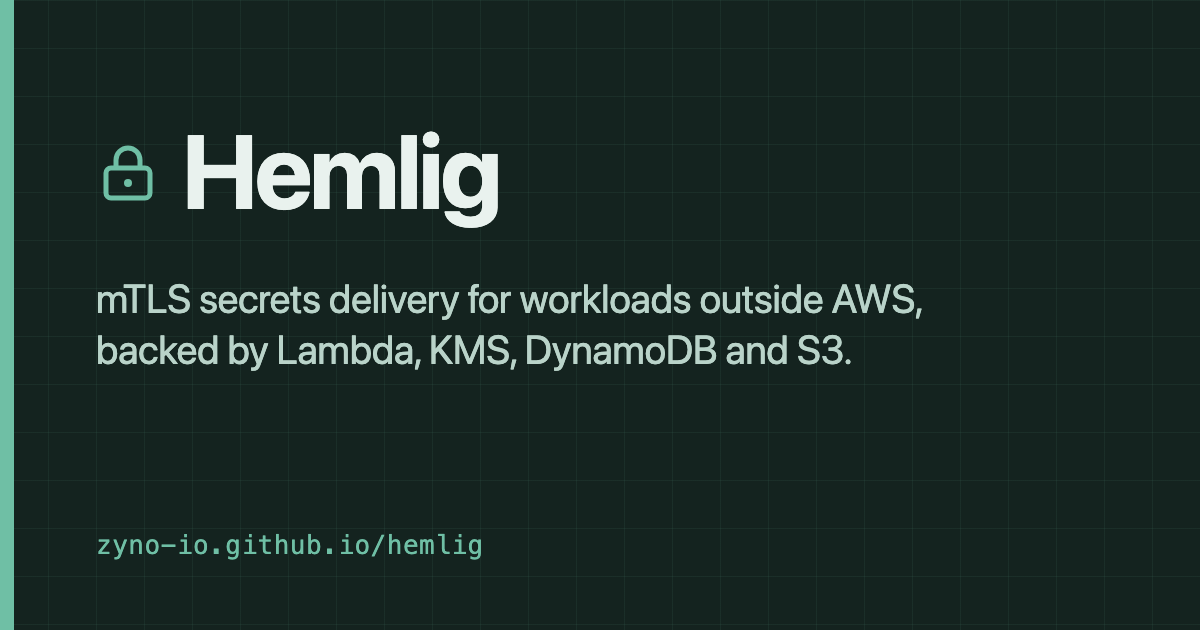
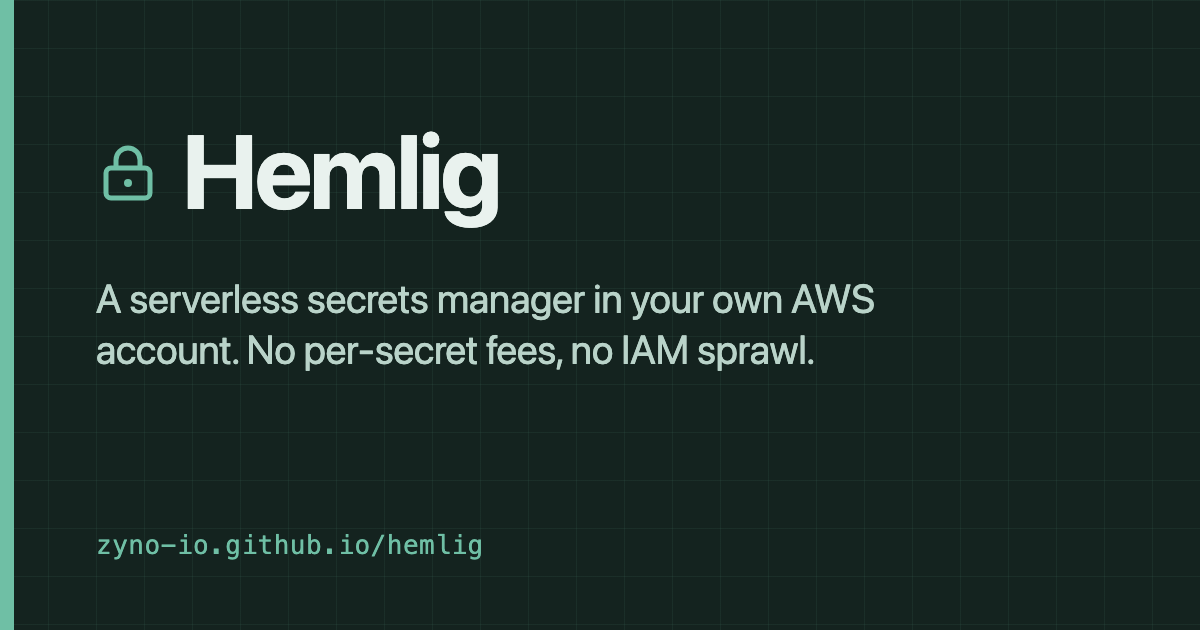
docs: reposition Hemlig as a serverless secrets manager; compare with AWS Secrets Manager

Changed region(s): [[0.0617, 0.4524, 0.7708, 0.6032]]

diff --git a/docs/.vitepress/config.ts b/docs/.vitepress/config.ts
@@ -13,7 +13,7 @@ export default withMermaid(
   defineConfig({
     title: "Hemlig",
     description:
-      "mTLS secrets delivery for non-AWS workloads, backed by AWS Lambda, S3, DynamoDB and KMS.",
+      "A serverless secrets manager you deploy in your own AWS account. No per-secret fees, access granted on the secret instead of an IAM role per workload, and changes pushed to Kubernetes.",
     base: "/hemlig/",
     lang: "en-US",
     cleanUrls: true,
@@ -41,7 +41,7 @@ export default withMermaid(
           "meta",
           {
             property: "og:image:alt",
-            content: "Hemlig: mTLS secrets delivery for workloads outside AWS",
+            content: "Hemlig: serverless secrets, without the IAM sprawl",
           },
         ],
         ["meta", { name: "twitter:card", content: "summary_large_image" }],

diff --git a/README.md b/README.md
@@ -1,15 +1,18 @@
 # Hemlig
 
-Hemlig delivers secrets to workloads that run outside AWS without giving them an
-AWS credential. It is a Lambda service you deploy into your own AWS account: KMS
-envelope-encrypted payloads in immutable S3 Object Lock revisions, authorization
-in DynamoDB, and an audit archive. Workloads authenticate with mTLS client
-certificates issued by Hemlig itself.
+Hemlig is a serverless secrets manager you deploy into your own AWS account. Compared
+with AWS Secrets Manager there is no per-secret monthly fee, access is granted
+on the secret from one console, CLI or Pulumi provider instead of an IAM role
+per workload, and changes are pushed to Kubernetes clusters, which can also
+export their own Secrets back. Underneath it is Lambda, KMS envelope-encrypted
+payloads in immutable S3 Object Lock revisions, DynamoDB, and an audit archive.
+Workloads authenticate with mTLS client certificates issued by Hemlig, so they
+never hold AWS credentials.
 
-**Who it is for:** platform and security teams running Kubernetes (or other
-infrastructure) outside AWS that want AWS-grade key management, immutable history
-and auditing, delivered through a Kubernetes controller, a CLI, a Pulumi provider,
-or the HTTP API.
+**Who it is for:** platform and security teams that want AWS-grade key
+management, immutable history and auditing without managing IAM per workload or
+paying per secret, delivered to Kubernetes (in or out of AWS), servers and CI
+through a Kubernetes controller, a CLI, a Pulumi provider, or the HTTP API.
 
 > Pre-1.0. Do not deliver production credentials without an isolated AWS
 > acceptance test of your OIDC and mTLS configuration.
@@ -35,17 +38,17 @@ or the HTTP API.
 
 ## Repository layout
 
-| Path                             | What it is                                                         | License |
-| -------------------------------- | ------------------------------------------------------------------ | ------- |
-| `src/`                           | Lambda handlers, services, crypto, repositories (root `hemlig`)    | AGPL    |
-| `cdk/`                           | `hemlig/cdk` construct and reference CDK app                       | MIT     |
-| `openapi/`                       | OpenAPI 3.1 contract                                               | MIT     |
-| `packages/client`                | `@zyno-io/hemlig-client` typed HTTPS client                        | MIT     |
-| `packages/cli`                   | `@zyno-io/hemlig-cli` administrator CLI                            | MIT     |
-| `packages/kubernetes-controller` | Controller, CRDs, Helm chart                                       | MIT     |
-| `packages/pulumi-provider`       | `@zyno-io/hemlig-pulumi-provider`                                  | MIT     |
-| `packages/console`               | Vue administrator console                                          | AGPL    |
-| `docs/`                          | VitePress documentation site; `docs/design/` = historical records  | AGPL    |
+| Path                             | What it is                                                        | License |
+| -------------------------------- | ----------------------------------------------------------------- | ------- |
+| `src/`                           | Lambda handlers, services, crypto, repositories (root `hemlig`)   | AGPL    |
+| `cdk/`                           | `hemlig/cdk` construct and reference CDK app                      | MIT     |
+| `openapi/`                       | OpenAPI 3.1 contract                                              | MIT     |
+| `packages/client`                | `@zyno-io/hemlig-client` typed HTTPS client                       | MIT     |
+| `packages/cli`                   | `@zyno-io/hemlig-cli` administrator CLI                           | MIT     |
+| `packages/kubernetes-controller` | Controller, CRDs, Helm chart                                      | MIT     |
+| `packages/pulumi-provider`       | `@zyno-io/hemlig-pulumi-provider`                                 | MIT     |
+| `packages/console`               | Vue administrator console                                         | AGPL    |
+| `docs/`                          | VitePress documentation site; `docs/design/` = historical records | AGPL    |
 
 ## Quickstart
 
@@ -127,17 +130,17 @@ Lock; use the [AWS acceptance runbook](docs/operations/acceptance.md).
 
 Docs site: **https://zyno-io.github.io/hemlig/**
 
-| Topic                                  | Source                                                         |
-| -------------------------------------- | -------------------------------------------------------------- |
-| What is Hemlig, concepts               | [docs/guide/](docs/guide/what-is-hemlig.md)                    |
-| Architecture and security model        | [docs/guide/architecture.md](docs/guide/architecture.md)       |
-| Deploying with CDK                     | [docs/guide/deploying.md](docs/guide/deploying.md)             |
-| Kubernetes controller                  | [docs/guide/kubernetes.md](docs/guide/kubernetes.md)           |
+| Topic                                  | Source                                                                                        |
+| -------------------------------------- | --------------------------------------------------------------------------------------------- |
+| What is Hemlig, concepts               | [docs/guide/](docs/guide/what-is-hemlig.md)                                                   |
+| Architecture and security model        | [docs/guide/architecture.md](docs/guide/architecture.md)                                      |
+| Deploying with CDK                     | [docs/guide/deploying.md](docs/guide/deploying.md)                                            |
+| Kubernetes controller                  | [docs/guide/kubernetes.md](docs/guide/kubernetes.md)                                          |
 | HTTP API and OpenAPI                   | [docs/reference/api/](docs/reference/api/index.md), [openapi/](openapi/consumer-secrets.yaml) |
-| Identity rotation, upgrades, releasing | [docs/operations/](docs/operations/identity-rotation.md)       |
-| Threat model                           | [docs/security/threat-model.md](docs/security/threat-model.md) |
-| Contributing                           | [CONTRIBUTING.md](CONTRIBUTING.md)                             |
-| Historical design records              | [docs/design/](docs/design/plan.md)                            |
+| Identity rotation, upgrades, releasing | [docs/operations/](docs/operations/identity-rotation.md)                                      |
+| Threat model                           | [docs/security/threat-model.md](docs/security/threat-model.md)                                |
+| Contributing                           | [CONTRIBUTING.md](CONTRIBUTING.md)                                                            |
+| Historical design records              | [docs/design/](docs/design/plan.md)                                                           |
 
 Preview the site locally with `yarn docs:dev`.
 

diff --git a/docs/guide/what-is-hemlig.md b/docs/guide/what-is-hemlig.md
@@ -1,18 +1,50 @@
 ---
 title: What is Hemlig
-description: Hemlig is a secrets service you deploy in your own AWS account. It delivers secrets over mutual TLS to workloads outside AWS, which never hold an AWS credential.
+description: Hemlig is a serverless secrets manager you deploy in your own AWS account, and how it compares with AWS Secrets Manager.
 pageType: explanation
 ---
 
 # What is Hemlig
 
-Hemlig is a secrets service you deploy in your own AWS account. It delivers secrets over [mutual TLS](../reference/glossary.md#mtls) to workloads outside AWS, which never hold an AWS credential.
+Hemlig is a serverless secrets manager you deploy in your own AWS account. It keeps AWS KMS, S3 and DynamoDB as the system of record, and puts a simpler layer on top: one place to decide who can read which secret, with no per-secret fee and changes pushed to your clusters.
 
-## The problem it solves
+## Why not AWS Secrets Manager
 
-- Kubernetes clusters, VMs and CI runners outside AWS still need secrets such as API keys and database passwords.
-- The usual fix is to hand those workloads AWS keys. Those keys are the risk: they leak, they outlive their purpose and they grant more than one secret.
-- Hemlig keeps AWS KMS, S3 and DynamoDB as the system of record and gives workloads only a short path to the secrets they were granted.
+AWS already stores secrets. Using it well still means:
+
+- **A monthly fee per secret.** Splitting credentials finely costs more every month.
+- **IAM for every reader.** Each workload needs a role and a policy, and "who can read this secret?" is answered by reading policies.
+- **An AWS identity on every workload.** Off AWS that means [IAM Roles Anywhere](https://aws.amazon.com/iam/roles-anywhere/), which needs a certificate authority of your own (or AWS Private CA), trust anchors, profiles and certificate renewal on each host.
+- **Polling.** Kubernetes add-ons such as External Secrets Operator refresh on an interval.
+
+Hemlig answers each one:
+
+- **No per-secret fee.** It runs on pay-per-request services with a single KMS key.
+- **Access lives on the secret.** Use an [ACL](../reference/glossary.md#acl) for a single workload or an [AgentGrant](../reference/glossary.md#agentgrant) for a cluster, from the console, CLI or Pulumi.
+- **Identity is built in.** Hemlig is the certificate authority. A one-time bootstrap token enrolls a cluster, and the controller rotates its own certificate.
+- **Changes are pushed.** A [change hint](../reference/glossary.md#change-hint) tells clusters to fetch new values within seconds. Clusters can also export their own Secrets back.
+
+## Compared with AWS Secrets Manager
+
+| | AWS Secrets Manager | Hemlig |
+| --- | --- | --- |
+| Pricing | Per secret per month, plus API calls | Per request only: Lambda, DynamoDB, S3, one KMS key |
+| Who can read a secret | IAM roles and policies per workload | ACL or AgentGrant on the secret, in the console, CLI or Pulumi |
+| Workload credential off AWS | IAM Roles Anywhere plus your own CA | A Hemlig client certificate, enrolled with a one-time token |
+| Credential renewal | Your PKI renews host certificates | The controller rotates its own certificate |
+| Kubernetes | Add-ons such as External Secrets Operator | Built-in controller |
+| Getting changes | Clients poll | Pushed change hints, with a resync safety net |
+| Cluster to store (export) | External Secrets `PushSecret` | `HemligSecretExport`, under the same grants |
+| History | Versions with staging labels | Immutable revisions under S3 Object Lock |
+| Audit | CloudTrail | A separate write-once audit archive |
+
+## When AWS Secrets Manager fits better
+
+- **Workloads inside AWS that use native integrations**: ECS task definitions, Lambda, CloudFormation dynamic references or RDS-managed passwords. Hemlig has none of these.
+- **Managed credential rotation** for RDS and other supported services. Hemlig stores what you write.
+- **Multi-Region replication.** A Hemlig deployment lives in one Region.
+- **A handful of secrets.** Hemlig has a small fixed monthly cost of its own, so a few dozen secrets is roughly break-even.
+- **No appetite to operate it.** You deploy and upgrade Hemlig yourself, and it is pre-1.0.
 
 ## How it works in one picture
 
@@ -87,6 +119,7 @@ Follow this path end to end in [Tutorial: your first secret in Kubernetes](first
 | --- | --- | --- |
 | Encryption at rest | Every revision has its own KMS-protected key | [Secrets and encryption](secrets-and-encryption.md) |
 | Immutable history | Changes add a revision; none is overwritten | [Secrets and encryption](secrets-and-encryption.md) |
+| Access without IAM | Grants live on the secret, not in IAM policies | [Concepts](concepts.md#direct-consumer-or-agent) |
 | No AWS credentials on workloads | Workloads hold a Hemlig certificate only | [Identity and trust](identity-and-trust.md) |
 | An audit trail | Events go to a separate write-once archive | [Audit evidence](audit-evidence.md) |
 | Kubernetes integration | A controller imports and exports Secrets | [Kubernetes controller](kubernetes.md) |
@@ -94,6 +127,7 @@ Follow this path end to end in [Tutorial: your first secret in Kubernetes](first
 
 ## What Hemlig does not do
 
+- It does not rotate database or service credentials for you. You write new values; consumers pick them up.
 - It has no delete route. Secrets are archived, not deleted.
 - It does not manage your identity provider, users or administrator groups.
 - It does not rotate the issuing root certificate.

diff --git a/docs/index.md b/docs/index.md
@@ -1,15 +1,15 @@
 ---
 layout: home
 title: Hemlig
-description: A secrets service you deploy in your own AWS account. Workloads outside AWS fetch secrets over mutual TLS and never hold an AWS credential.
+description: A serverless secrets manager you deploy in your own AWS account. No per-secret fees, access granted on the secret instead of an IAM role per workload, and changes pushed to Kubernetes.
 hero:
   name: Hemlig
-  text: Secrets for workloads outside AWS
-  tagline: Deploy it in your own AWS account. Your clusters and servers fetch secrets over mutual TLS, with no AWS credentials on them.
+  text: Serverless secrets, without the IAM sprawl
+  tagline: A secrets manager that runs in your own AWS account. No per-secret fees, one console for who can read what, and delivery to Kubernetes or any server.
   actions:
     - theme: brand
-      text: How it works
-      link: /guide/architecture
+      text: What is Hemlig
+      link: /guide/what-is-hemlig
     - theme: alt
       text: Quickstart
       link: /guide/quickstart
@@ -17,22 +17,22 @@ hero:
       text: First secret in Kubernetes
       link: /guide/first-secret
 features:
-  - title: No AWS credentials on consumers
-    details: Workloads prove who they are with a client certificate issued by Hemlig. Everything else stays behind API Gateway, Lambda and KMS.
-    link: /guide/identity-and-trust
-    linkText: Identity and trust
-  - title: Immutable, audited revisions
+  - title: Access without a role per workload
+    details: Grant a secret to a workload or a whole cluster from the console, CLI or Pulumi. No IAM policies to write, and workloads never hold AWS credentials.
+    link: /guide/managing-secrets
+    linkText: Manage secrets
+  - title: No per-secret fee
+    details: Lambda, DynamoDB, S3 and a single KMS key, billed per request. Adding a secret adds no monthly charge.
+    link: /guide/what-is-hemlig#compared-with-aws-secrets-manager
+    linkText: Compare with Secrets Manager
+  - title: Immutable, audited history
     details: Every change is a new revision that cannot be altered or deleted early. Audit events go to a separate locked archive.
     link: /guide/secrets-and-encryption
     linkText: Secrets and encryption
-  - title: Kubernetes native
-    details: A controller copies granted secrets into Kubernetes Secrets, and can push application-owned Secrets back, with change hints for fast updates.
+  - title: Pushed, in both directions
+    details: Changes reach clusters in seconds through change hints, not a polling interval. Clusters can also export their own Secrets back, under the same grants.
     link: /guide/kubernetes
     linkText: Install the controller
-  - title: Operable
-    details: Overlapping identity rotation, revocation, explicit upgrade paths, and an AWS acceptance runbook for what emulators cannot prove.
-    link: /operations/acceptance
-    linkText: Validate in AWS
 ---
 
 ## Start by role

diff --git a/packages/console/PRODUCT.md b/packages/console/PRODUCT.md
@@ -16,7 +16,7 @@ matter more than speed (confirmed 2026-11-17).
 ## Product Purpose
 
 The Hemlig console is the browser interface to the Hemlig administrator API:
-mTLS secrets delivery for non-AWS workloads. It lets an administrator create and
+a serverless secrets manager in the operator's own AWS account. It lets an administrator create and
 update secrets and their payloads, organize them in folders and tags, enroll
 consumers and rotate or revoke their certificates, check truststore status, and
 browse the immutable audit archive. Success means an administrator can make a

diff --git a/docs/guide/architecture.md b/docs/guide/architecture.md
@@ -6,7 +6,7 @@ pageType: explanation
 
 # Architecture
 
-Hemlig is a set of AWS Lambda functions around one DynamoDB table and a few S3 buckets, so workloads outside AWS can read secrets without holding AWS credentials.
+Hemlig is a set of AWS Lambda functions around one DynamoDB table, a few S3 buckets and one KMS key. Workloads read secrets with a Hemlig client certificate, so they never hold AWS credentials.
 
 Read [Concepts](concepts.md) first for the vocabulary. This page shows the parts and the boundaries between them.
 
